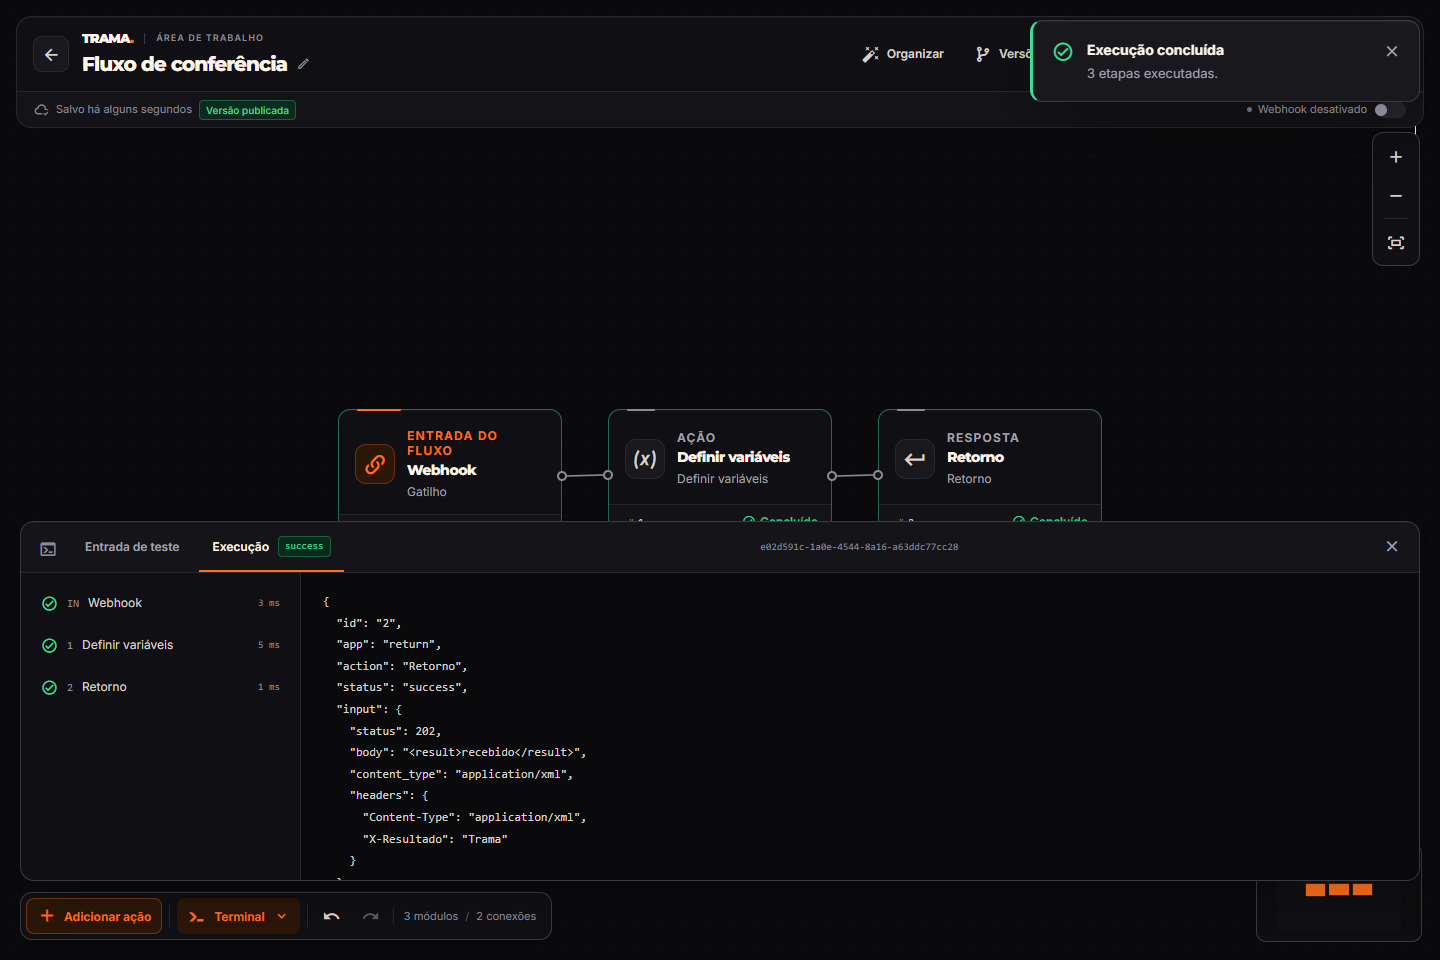
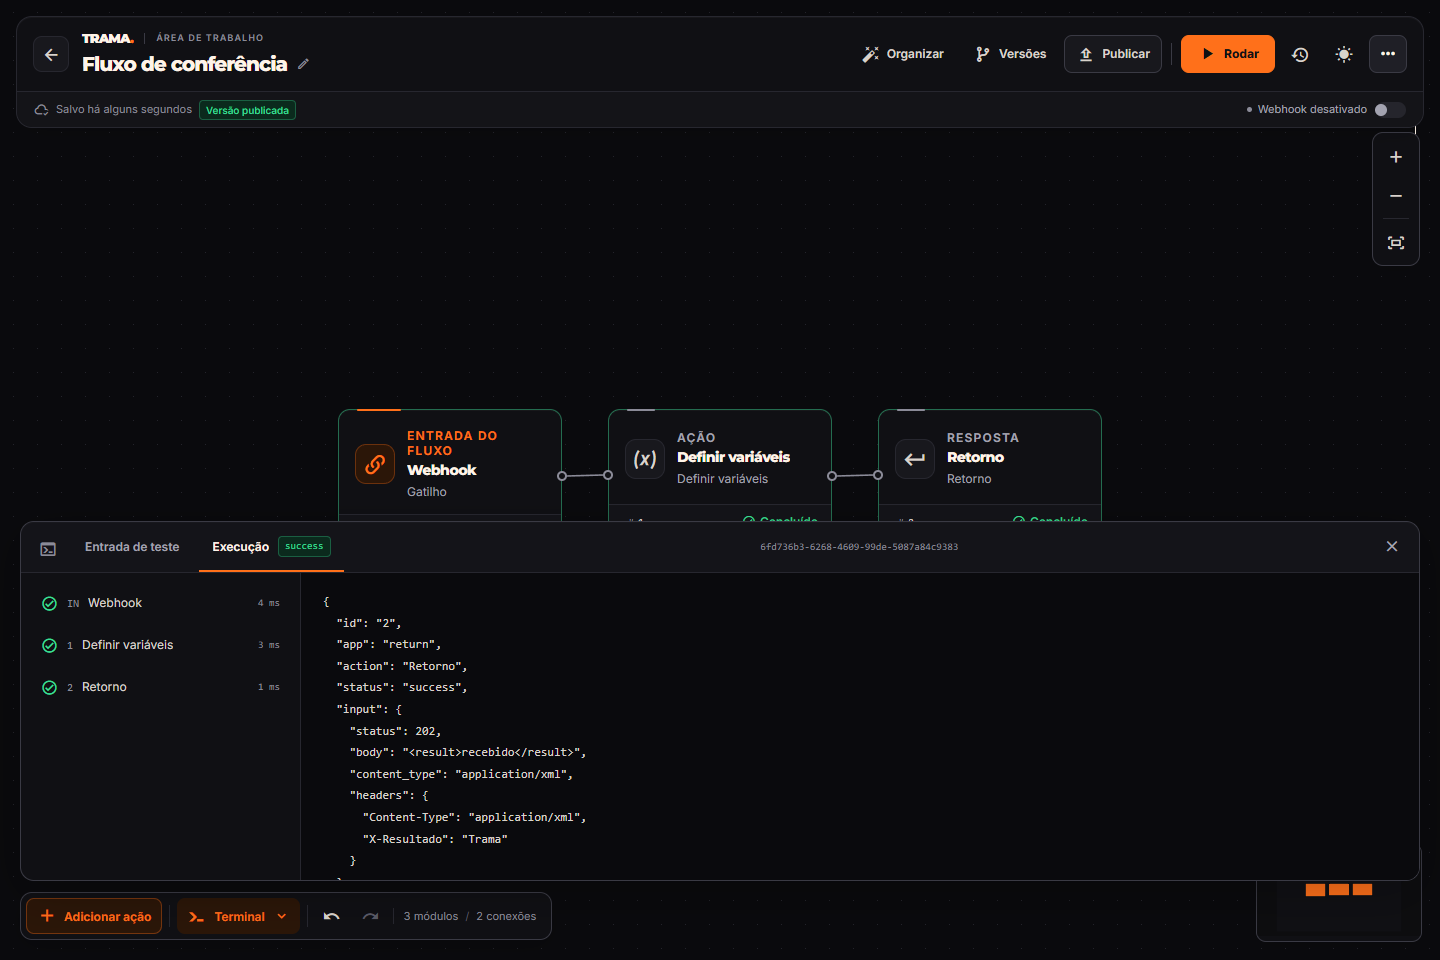
fix(trama): concluir identidade Caramelo e validar modais

Changed region(s): [[0.7188, 0.0312, 0.9688, 0.125], [0.5312, 0.5625, 0.6562, 0.5938]]

diff --git a/src/tools/trama/app/components/flux/fields/CodeInput.vue b/src/tools/trama/app/components/flux/fields/CodeInput.vue
@@ -33,7 +33,7 @@ function markVariables() {
   }
 }
 onMounted(async () => {
-  instance = CodeMirror.fromTextArea(textarea.value, { value: stringify(props.modelValue), mode: modeFor(props.language), lineNumbers: true, lineWrapping: true, tabSize: 2, indentUnit: 2, matchBrackets: true, autoCloseBrackets: true, viewportMargin: 20, theme: 'caramelo' })
+  instance = CodeMirror.fromTextArea(textarea.value, { value: stringify(props.modelValue), mode: modeFor(props.language), lineNumbers: true, lineWrapping: true, tabSize: 2, indentUnit: 2, matchBrackets: true, autoCloseBrackets: props.language === 'javascript', viewportMargin: 20, theme: 'caramelo' })
   instance.setValue(stringify(props.modelValue))
   instance.setSize(null, Math.max(140, props.rows * 20 + 24))
   instance.getWrapperElement().setAttribute('role', 'textbox')
@@ -47,7 +47,7 @@ onMounted(async () => {
   instance.refresh()
 })
 watch(() => props.modelValue, value => { if (instance && instance.getValue() !== stringify(value)) { const cursor = instance.getCursor(); instance.setValue(stringify(value)); instance.setCursor(cursor); markVariables() } })
-watch(() => props.language, language => instance?.setOption('mode', modeFor(language)))
+watch(() => props.language, language => { instance?.setOption('mode', modeFor(language));instance?.setOption('autoCloseBrackets',language === 'javascript') })
 watch(() => props.invalid, value => instance?.getWrapperElement().setAttribute('aria-invalid', String(!!value)))
 onBeforeUnmount(() => instance?.toTextArea())
 function insert(text) { if (instance) { instance.replaceSelection(text, 'end'); instance.focus() } }

diff --git a/src/tools/trama/app/views/FluxEditorView.vue b/src/tools/trama/app/views/FluxEditorView.vue
@@ -70,7 +70,9 @@ function nextId(){const numeric=flux.value.steps.map(s=>Number(String(s.id).repl
 function addStep(context){
   const {app,module:moduleDef,appDefinition,sourceId,sourceHandle='out',position}=typeof context==='string'?{app:context}:context
   remember();const source=flux.value.steps.find(s=>String(s.id)===sourceId),positions=layoutGraph(flux.value.steps,flux.value.edges)
-  const step={id:nextId(),app,action:getApp(app).title,config:{},position:position??{x:(positions[sourceId]?.x??-324)+324,y:positions[sourceId]?.y??0}}
+  const existingPositions=Object.values(positions)
+  const fallback={x:Math.max(-324,...existingPositions.map(p=>p.x))+324,y:Math.min(0,...existingPositions.map(p=>p.y))}
+  const step={id:nextId(),app,action:getApp(app).title,config:{},position:position??(source?{x:positions[sourceId].x+324,y:positions[sourceId].y}:fallback)}
   if(moduleDef&&appDefinition) Object.assign(step,{title:appDefinition.name,action:moduleDef.name,description:moduleDef.description??'',module_id:moduleDef.id,parameters_json:clone(moduleDef.parameters_json??[]),definition:clone({base:appDefinition.base,request:moduleDef.request,revision:appDefinition.revision,app_id:appDefinition.id,module_id:moduleDef.id})})
   if(source?.app==='router'){const branch=Number(sourceHandle.replace('branch-',''))||1;step.position.y+=(branch-1)*230-115}
   if(sourceHandle==='body')step.position.y-=115

diff --git a/docs/trama-integration.md b/docs/trama-integration.md
@@ -58,10 +58,18 @@ O trigger de exclusão conserva as chaves na fila privada de limpeza. `node scri
 
 ## Validação e publicação
 
-TypeScript e build Vite aprovados. A suíte da plataforma passou 156 testes, incluindo o webhook real com transporte de teste e banco PGlite: versão publicada, idempotência, formulários já analisados pela Vercel, captura, troca de token, autorização e concorrência. O runtime da Trama possui mais 15 testes. A conferência anterior no Edge com fixture local passou criação de fluxo, execução pelo motor real, versão, envio/download/exclusão de arquivo, temas e viewport móvel. Auth, persistência e arquivos dessa conferência visual são controlados localmente; não representam uma sessão de membro real no Supabase.
+TypeScript e build Vite aprovados. A suíte da plataforma passou 158 testes, incluindo o webhook real com transporte de teste e banco PGlite: versão publicada, idempotência, formulários já analisados pela Vercel, captura, troca de token, autorização e concorrência. O runtime da Trama passou mais 15 testes. A conferência anterior no Edge com fixture local passou criação de fluxo, execução pelo motor real, versão, envio/download/exclusão de arquivo, temas e viewport móvel. Auth, persistência e arquivos dessa conferência visual são controlados localmente; não representam uma sessão de membro real no Supabase.
 
 Capturas e resultados estão em `docs/qa/trama-2026-10-28/`. A inspeção visual orientou correções da lista móvel e do contraste no tema claro. A auditoria MCP automática é complementar: não mede todos os contrastes computados de Vue/Vuetify.
 
 O catálogo está disponível em beta. `TRAMA_ENCRYPTION_KEY` e `CLOUDFLARE_R2_PRIVATE_BUCKET` foram configuradas no ambiente de produção da Vercel, usando a mesma chave do ambiente local e o bucket privado provisionado. As credenciais do Supabase e R2 permanecem exclusivas do servidor.
 
 A auditoria de dependências identificou avisos na cadeia preexistente do pacote local `@caramelo/design-system` (Zod), cuja atualização é independente desta integração. As dependências da Trama foram fixadas no lockfile.
+
+## Identidade e comportamento dos modais
+
+A Trama usa o sistema Lumen do MCP Caramelo em toda a interface: área de trabalho, cartões de módulo, portas, conexões, controles, terminal, telas de fluxos/conexões/histórico e modais. Os tokens semânticos e o tema do LAB também alcançam os overlays do Vuetify. A interface respeita teclado, foco e movimento reduzido.
+
+O Webhook apresenta produção e teste simultaneamente. Testar Webhook inicia uma escuta cancelável de até dois minutos. `/flows/:id/webhook/capture` consulta somente o proprietário, sem lease ou gravação, e retorna apenas chamadas ao link de teste. A entrada pode ser fixada, editada ou limpa. Selecionar uma nova ação exige confirmar em Salvar antes de inserir o nó.
+
+O Retorno apresenta Formato/Código de resposta, abas Body/Headers e editor expandido. O servidor respeita JSON, XML, HTML, texto e multipart, com limite de 2 MB. HTML e XML recebem CSP com sandbox; headers de segurança e identificação da execução permanecem controlados pelo servidor. A conferência visual está em `docs/qa/trama-identity-2026-10-28/`.

diff --git a/docs/qa/trama-identity-2026-10-28/README.md b/docs/qa/trama-identity-2026-10-28/README.md
@@ -1,0 +1,25 @@
+# Trama · identidade Caramelo e modais
+
+Conferência de 28/10/2026 com frontend Vue, gateway e motor reais. Autenticação e persistência são fixtures locais isoladas, sem acessar contas de membros ou provedores externos.
+
+A direção usa o material Lumen, os papéis semânticos dos dois temas, tipografia, foco e interações consultados no MCP Caramelo. Nós, canvas, toolbar, terminal, home, conexões, histórico e modais receberam o mesmo sistema visual. Logos de aplicativos externos foram preservados.
+
+## Percursos
+
+- Criação de fluxo e abertura da área de trabalho.
+- Webhook com produção/teste separados, escuta, captura sem execução, fixação, edição, limpeza e troca de token.
+- Retorno com formato, código HTTP, Body/Headers, pares editáveis e editor expandido; gravação e execução pelo motor.
+- Seleção de ação em duas etapas: selecionar e confirmar em Salvar.
+- Temas claro/escuro, tela de 390 × 844 e abertura de nós pelo teclado.
+
+`results.json` registra os percursos. As capturas mostram somente dados fictícios e ocultam os links dos webhooks.
+
+## Reproduzir
+
+Com Playwright disponível no ambiente de QA, Edge instalado e a plataforma em `127.0.0.1:5180`:
+
+```powershell
+node docs/qa/trama-identity-2026-10-28/run.mjs
+```
+
+Os testes de servidor também cobrem captura restrita ao proprietário, ausência de bloqueio durante a escuta e retornos JSON, XML, HTML com sandbox, texto e multipart, incluindo status e headers. A suíte geral passou 158 testes e o runtime mais 15. TypeScript e build Vite foram aprovados.
